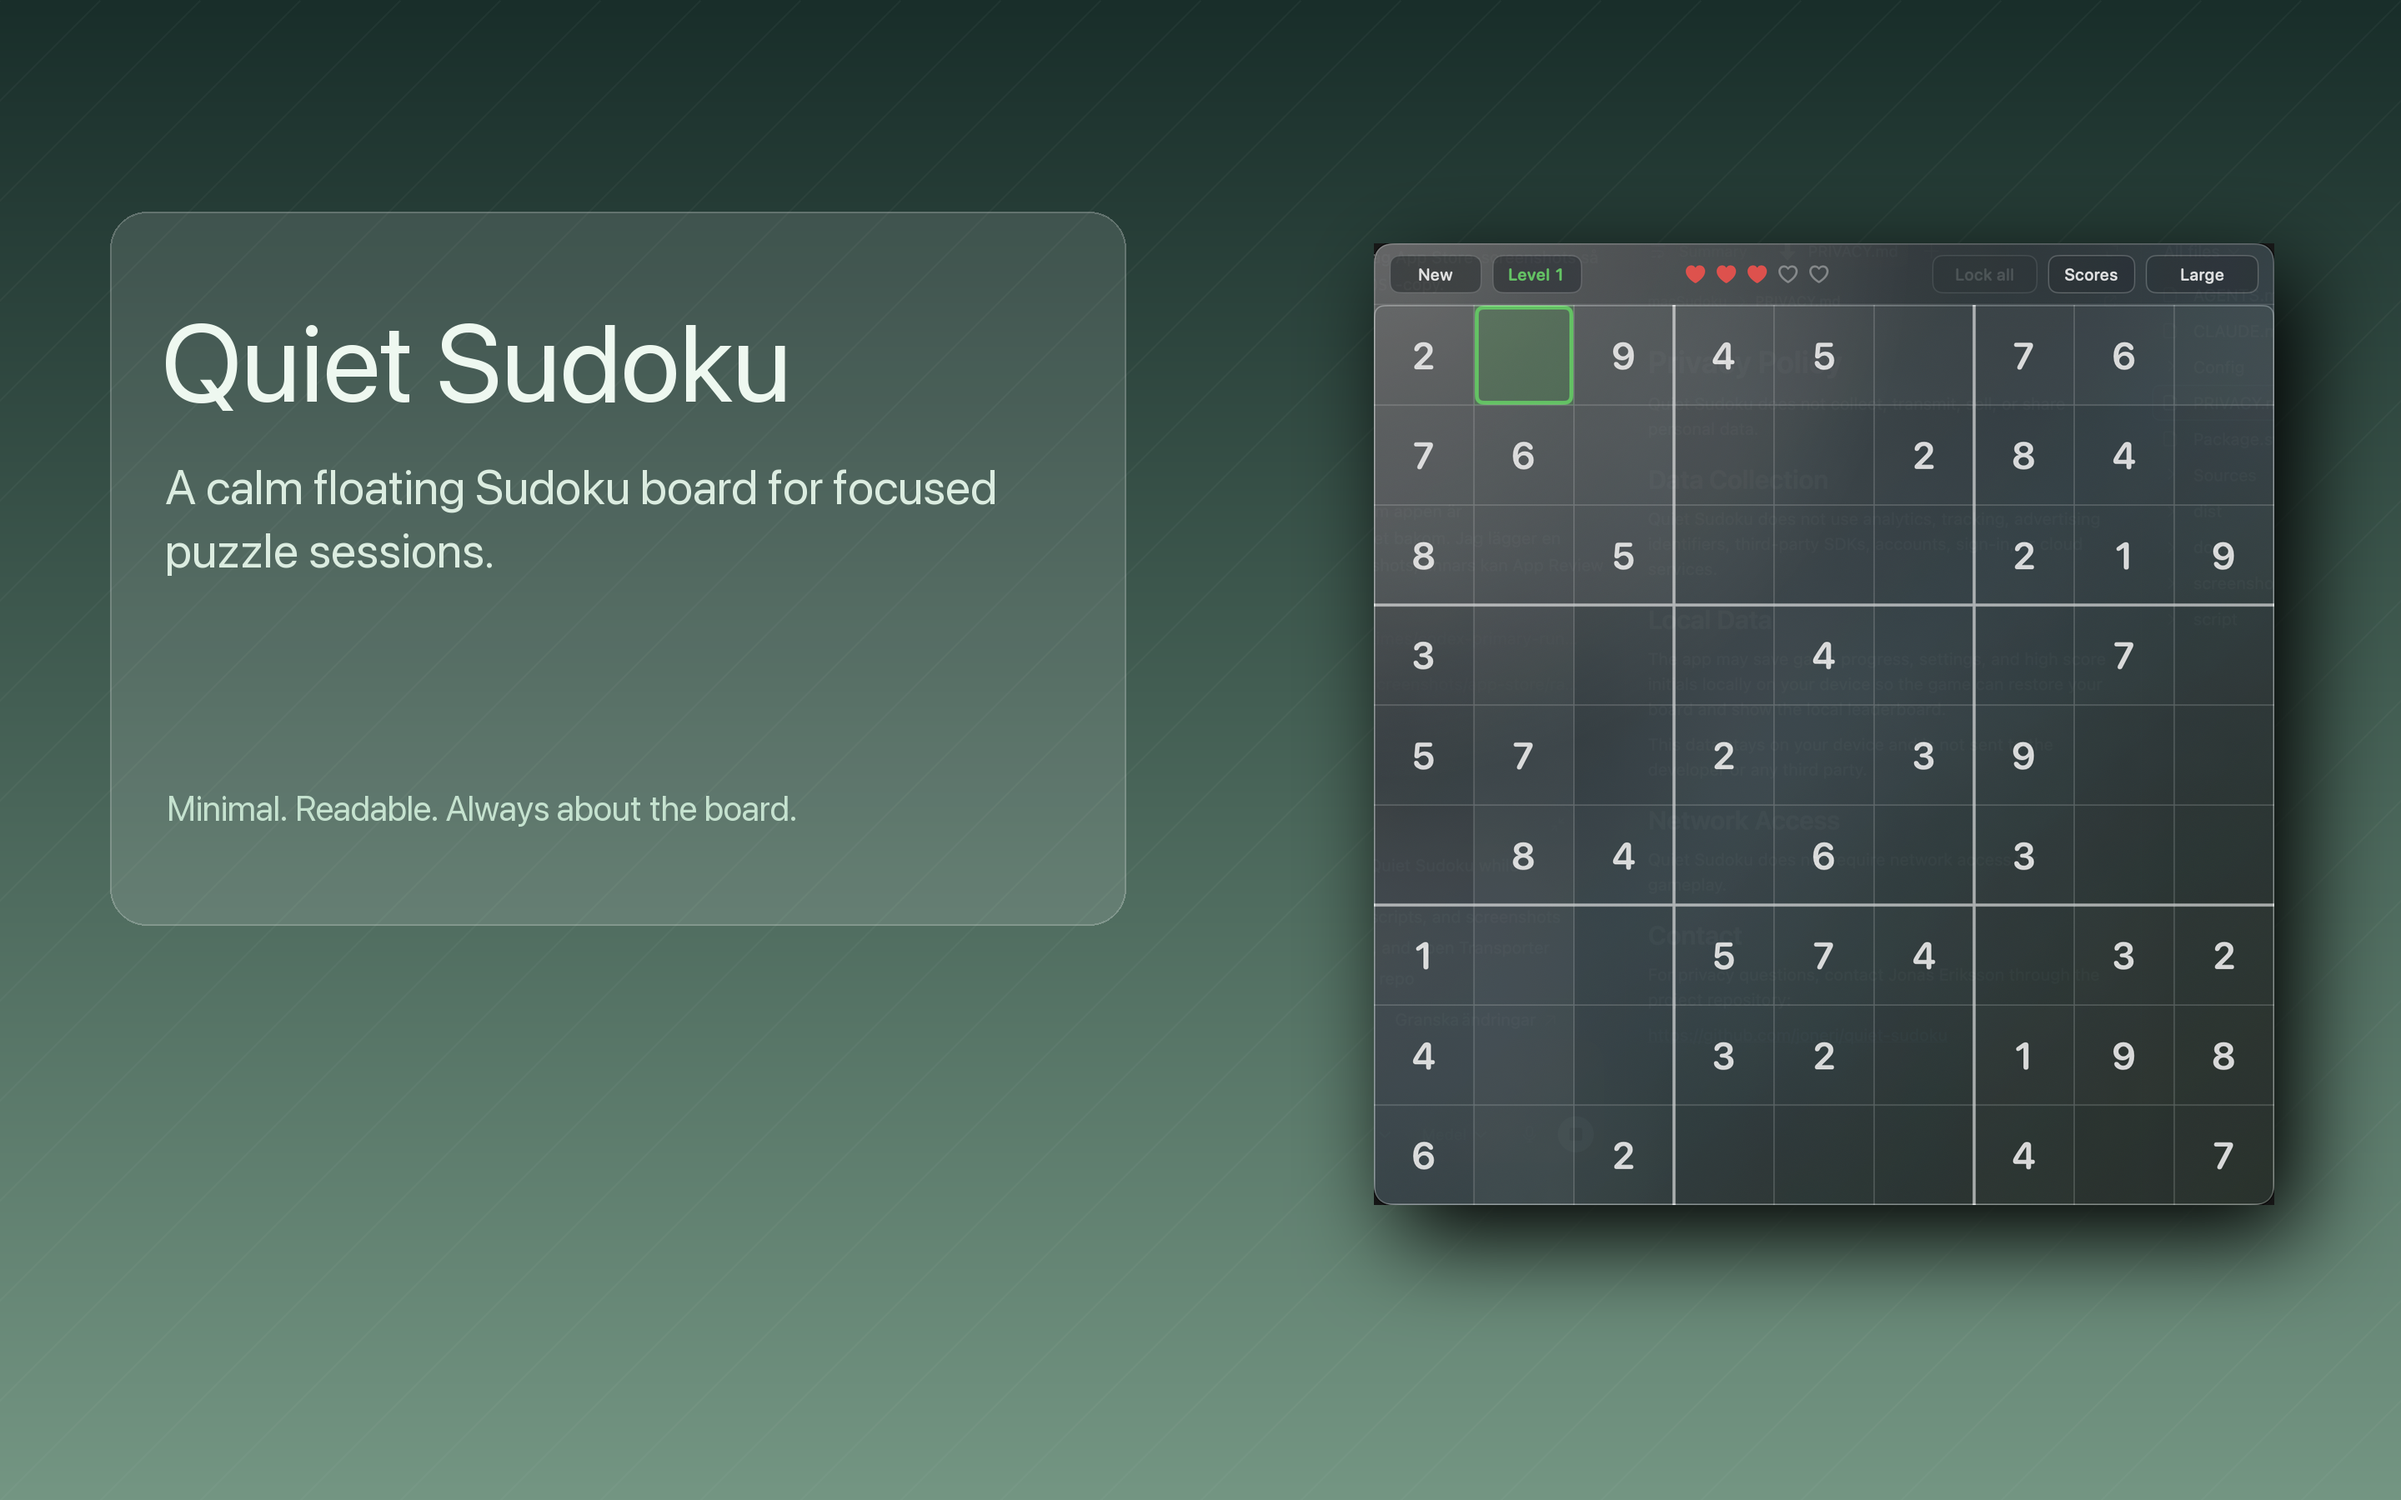
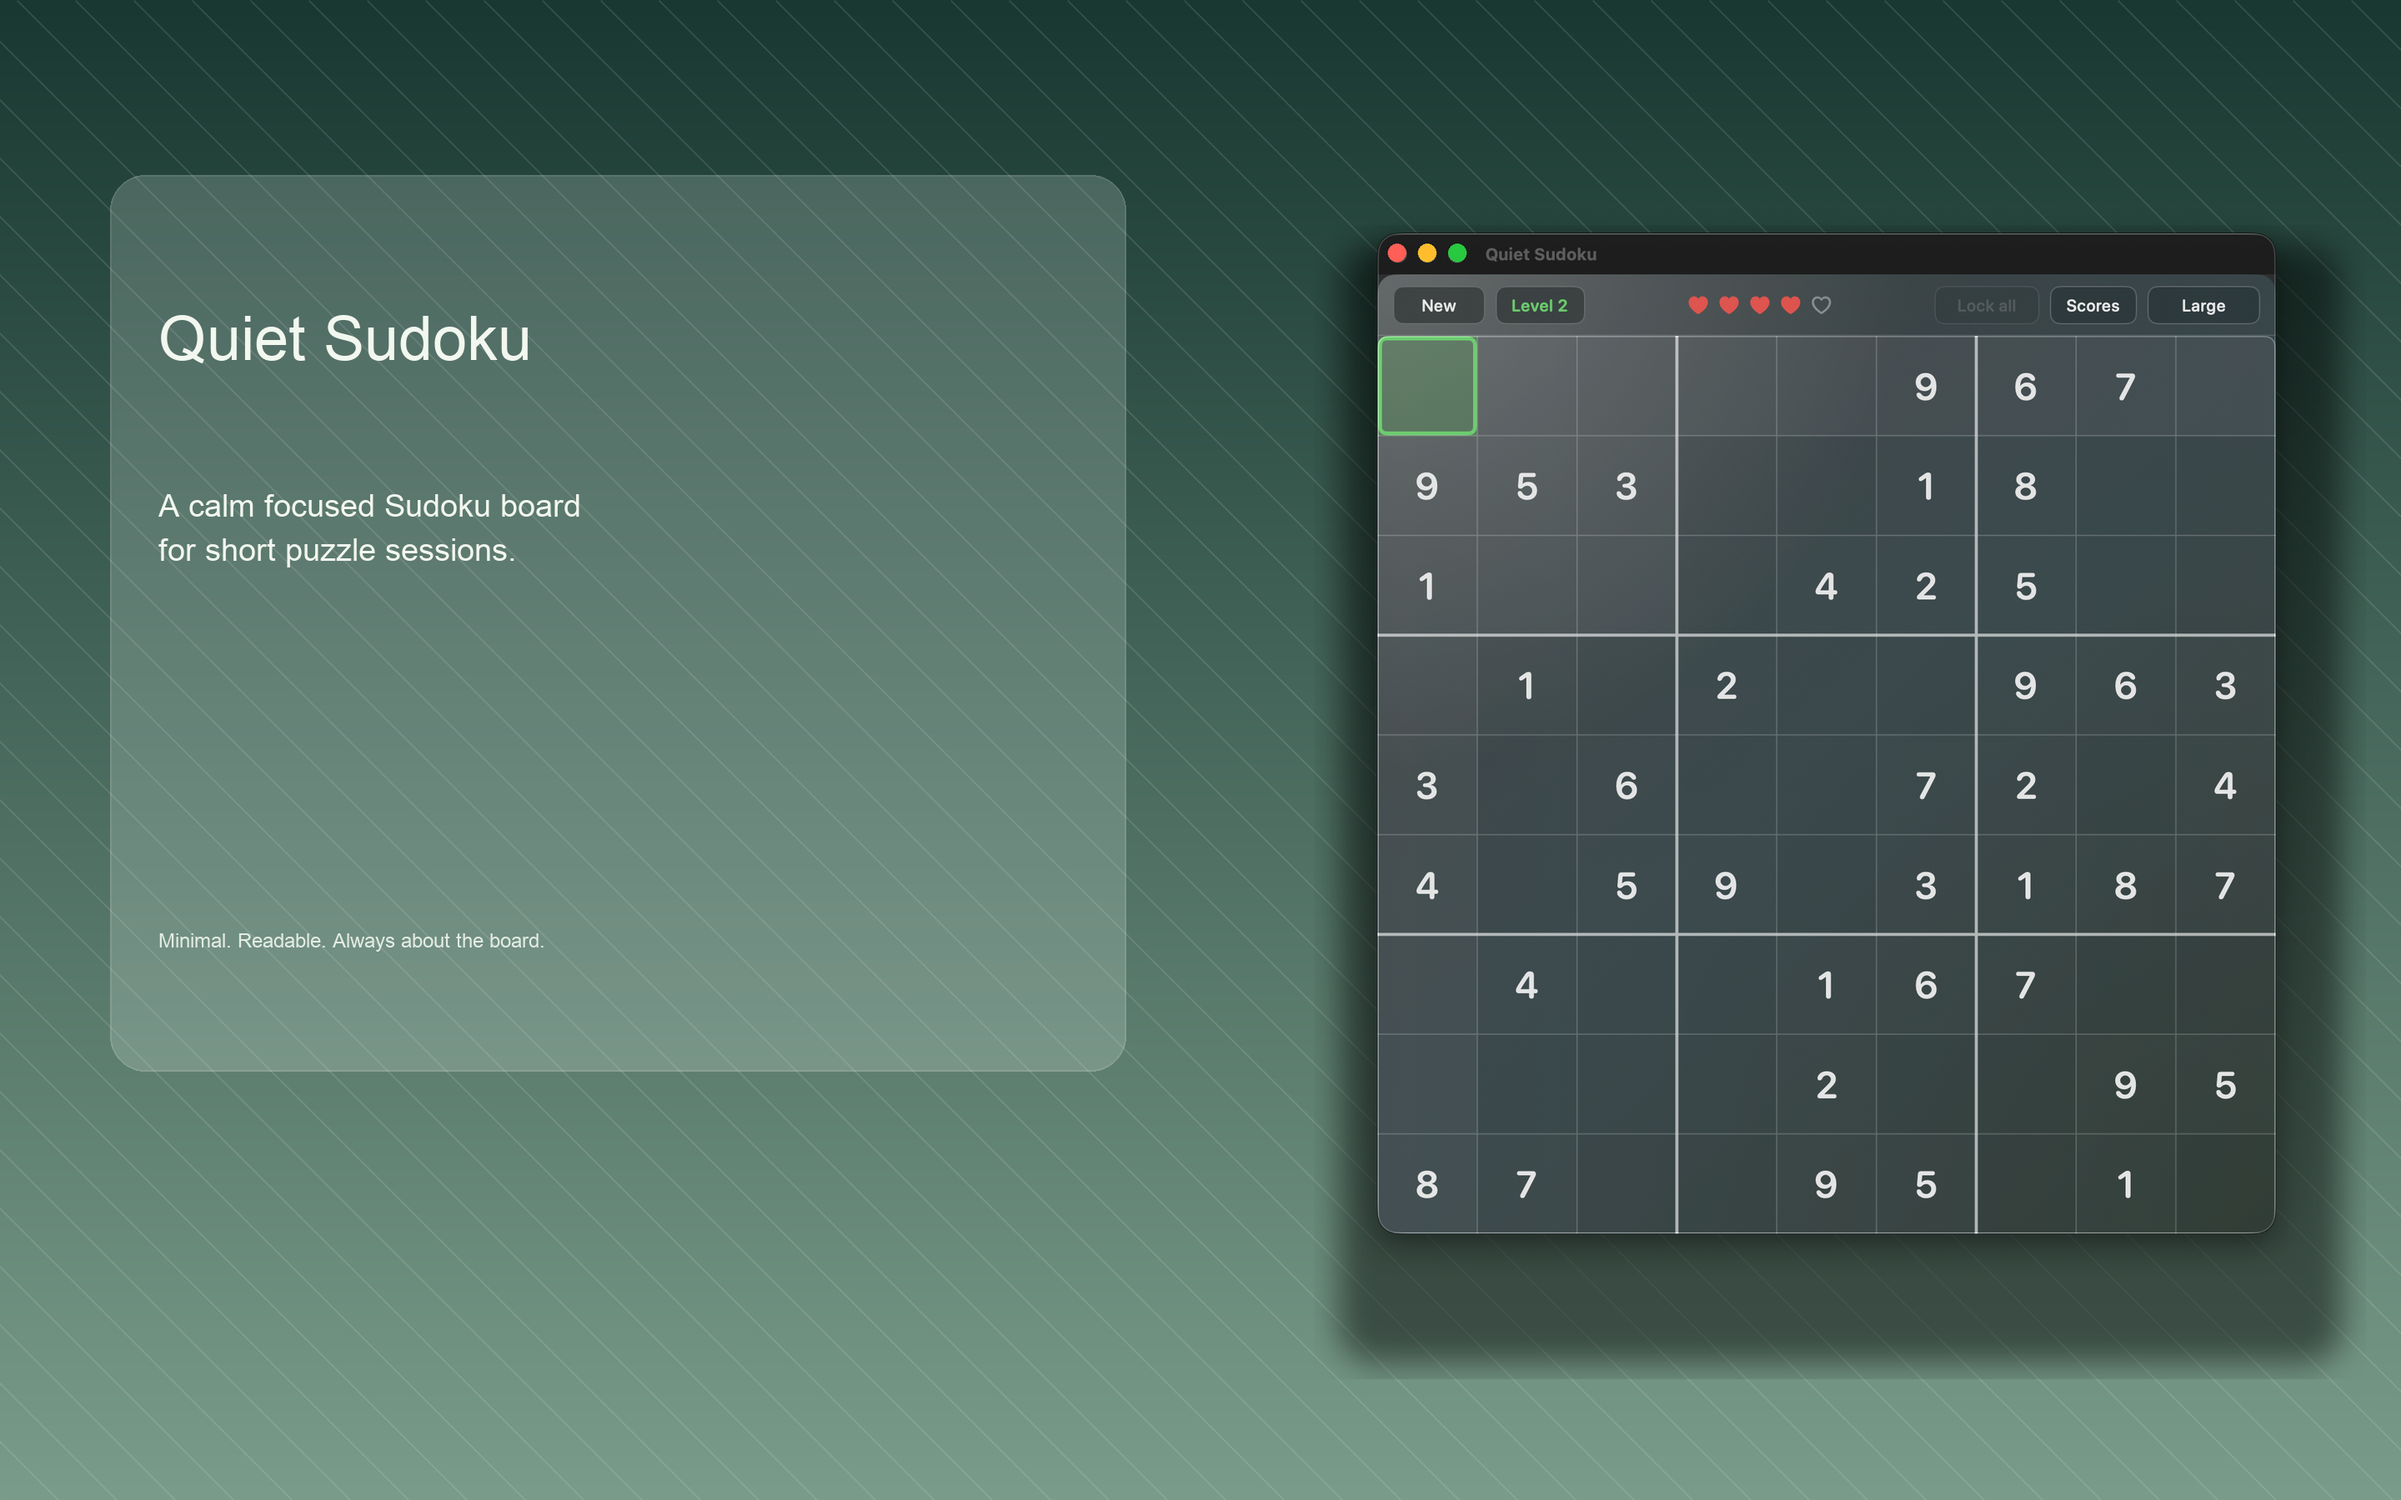
Preserve native window chrome; add screenshots
Keep the standard macOS title-bar/toolbar controls and simplify floating window tuning. Updated QuietSudokuApp to use the app name "Quiet Sudoku" and removed toolbar/title-bar hiding and .windowStyle(.plain) calls. FloatingWindowConfigurator now only adjusts level, shadow, alpha, resizability and space behavior and no longer performs titlebar transparency, full-size content, or hides the standard traffic-light buttons (so controls remain visible for review). Added docs/features/window-chrome.md explaining the rationale and App Store review considerations. Updated App Store screenshot images and added screenshots/raw/window-clean.png plus script/generate_app_store_screenshots.py to generate composited marketing screenshots.

diff --git a/Sources/QuietSudoku/Support/FloatingWindowConfigurator.swift b/Sources/QuietSudoku/Support/FloatingWindowConfigurator.swift
@@ -23,17 +23,9 @@ struct FloatingWindowConfigurator: NSViewRepresentable {
 
         window.level = .floating
         window.isMovableByWindowBackground = false
-        window.titleVisibility = .hidden
-        window.titlebarAppearsTransparent = true
-        window.backgroundColor = .clear
-        window.isOpaque = false
         window.hasShadow = true
         window.alphaValue = 0.98
         window.styleMask.remove(.resizable)
-        window.styleMask.insert(.fullSizeContentView)
         window.collectionBehavior.insert([.canJoinAllSpaces, .fullScreenAuxiliary])
-        window.standardWindowButton(.closeButton)?.isHidden = true
-        window.standardWindowButton(.miniaturizeButton)?.isHidden = true
-        window.standardWindowButton(.zoomButton)?.isHidden = true
     }
 }

diff --git a/Sources/QuietSudoku/App/QuietSudokuApp.swift b/Sources/QuietSudoku/App/QuietSudokuApp.swift
@@ -6,13 +6,11 @@ struct QuietSudokuApp: App {
     @NSApplicationDelegateAdaptor(AppDelegate.self) private var appDelegate
 
     var body: some Scene {
-        WindowGroup("Sudoku") {
+        WindowGroup("Quiet Sudoku") {
             SudokuBoardView()
                 .background(FloatingWindowConfigurator())
-                .toolbarVisibility(.hidden, for: .windowToolbar)
                 .containerBackground(.thinMaterial, for: .window)
         }
-        .windowStyle(.plain)
         .windowResizability(.contentSize)
         .defaultWindowPlacement { content, context in
             let ideal = content.sizeThatFits(.unspecified)

diff --git a/script/generate_app_store_screenshots.py b/script/generate_app_store_screenshots.py
@@ -1,0 +1,135 @@
+#!/usr/bin/env python3
+
+from pathlib import Path
+from PIL import Image, ImageDraw, ImageFilter, ImageFont
+
+ROOT = Path("/Users/jonaseriksson/dev-stuff/GitHub/macSudoku")
+WINDOW_CAPTURE = ROOT / "screenshots" / "raw" / "window-clean.png"
+OUTPUT_DIR = ROOT / "screenshots" / "app-store"
+
+WIDTH = 2880
+HEIGHT = 1800
+
+FONT_REGULAR = "/System/Library/Fonts/Supplemental/Arial.ttf"
+FONT_BOLD = "/System/Library/Fonts/Supplemental/Arial Bold.ttf"
+
+SCREEN_SPECS = [
+    {
+        "filename": "01-main-board.png",
+        "bg_top": (24, 56, 49),
+        "bg_bottom": (122, 156, 138),
+        "headline": "Quiet Sudoku",
+        "body": "A calm focused Sudoku board\nfor short puzzle sessions.",
+        "footer": "Minimal. Readable. Always about the board.",
+        "window_scale": 0.77,
+        "window_pos": (1600, 240),
+    },
+    {
+        "filename": "02-readable-board.png",
+        "bg_top": (29, 49, 66),
+        "bg_bottom": (136, 168, 157),
+        "headline": "Clear at a glance",
+        "body": "Readable numbers, soft cell feedback,\nand a calm board surface.",
+        "footer": "Easy to scan from the first move.",
+        "window_scale": 0.73,
+        "window_pos": (1660, 270),
+    },
+    {
+        "filename": "03-progress-feedback.png",
+        "bg_top": (26, 54, 43),
+        "bg_bottom": (108, 150, 121),
+        "headline": "Gentle progress",
+        "body": "Completed digits and board progress\nstay visible without visual clutter.",
+        "footer": "Quiet focus from first move to last.",
+        "window_scale": 0.73,
+        "window_pos": (1660, 270),
+    },
+]
+
+
+def load_font(path: str, size: int) -> ImageFont.FreeTypeFont:
+    return ImageFont.truetype(path, size=size)
+
+
+def make_gradient(top: tuple[int, int, int], bottom: tuple[int, int, int]) -> Image.Image:
+    image = Image.new("RGBA", (WIDTH, HEIGHT))
+    draw = ImageDraw.Draw(image)
+    for y in range(HEIGHT):
+        t = y / (HEIGHT - 1)
+        color = tuple(int(top[i] * (1 - t) + bottom[i] * t) for i in range(3))
+        draw.line((0, y, WIDTH, y), fill=color + (255,))
+    return image
+
+
+def add_diagonal_pattern(image: Image.Image) -> None:
+    overlay = Image.new("RGBA", image.size, (0, 0, 0, 0))
+    draw = ImageDraw.Draw(overlay)
+    spacing = 70
+    for x in range(-HEIGHT, WIDTH, spacing):
+        draw.line((x, 0, x + HEIGHT, HEIGHT), fill=(255, 255, 255, 26), width=2)
+    image.alpha_composite(overlay)
+
+
+def add_glass_panel(image: Image.Image) -> None:
+    panel = Image.new("RGBA", image.size, (0, 0, 0, 0))
+    draw = ImageDraw.Draw(panel)
+    bounds = (132, 210, 1350, 1285)
+    draw.rounded_rectangle(bounds, radius=42, fill=(214, 229, 222, 56), outline=(255, 255, 255, 66), width=2)
+    image.alpha_composite(panel)
+
+
+def add_copy(image: Image.Image, headline: str, body: str, footer: str) -> None:
+    draw = ImageDraw.Draw(image)
+    headline_font = load_font(FONT_REGULAR, 74)
+    body_font = load_font(FONT_REGULAR, 38)
+    footer_font = load_font(FONT_REGULAR, 24)
+    ink = (242, 247, 239, 255)
+    secondary = (224, 234, 226, 230)
+
+    draw.text((190, 365), headline, font=headline_font, fill=ink)
+    draw.multiline_text((190, 585), body, font=body_font, fill=ink, spacing=18)
+    draw.text((190, 1115), footer, font=footer_font, fill=secondary)
+
+
+def add_window(image: Image.Image, window_capture: Image.Image, scale: float, pos: tuple[int, int]) -> None:
+    new_size = (int(window_capture.width * scale), int(window_capture.height * scale))
+    resized = window_capture.resize(new_size, Image.Resampling.LANCZOS)
+
+    shadow = Image.new("RGBA", (resized.width + 80, resized.height + 80), (0, 0, 0, 0))
+    shadow_draw = ImageDraw.Draw(shadow)
+    shadow_draw.rounded_rectangle((30, 24, shadow.width - 30, shadow.height - 20), radius=42, fill=(0, 0, 0, 120))
+    shadow = shadow.filter(ImageFilter.GaussianBlur(18))
+    image.alpha_composite(shadow, (pos[0] - 24, pos[1] + 30))
+    image.alpha_composite(resized, pos)
+
+
+def add_traffic_light_colors(window_capture: Image.Image) -> Image.Image:
+    recolored = window_capture.copy()
+    draw = ImageDraw.Draw(recolored, "RGBA")
+    buttons = [
+        ((98, 82), (255, 95, 87, 255)),
+        ((145, 82), (255, 189, 46, 255)),
+        ((192, 82), (40, 200, 64, 255)),
+    ]
+    radius = 14
+    for (cx, cy), color in buttons:
+        draw.ellipse((cx - radius, cy - radius, cx + radius, cy + radius), fill=color)
+    return recolored
+
+
+def main() -> None:
+    OUTPUT_DIR.mkdir(parents=True, exist_ok=True)
+    window_capture = Image.open(WINDOW_CAPTURE).convert("RGBA")
+    window_capture = add_traffic_light_colors(window_capture)
+
+    for spec in SCREEN_SPECS:
+        canvas = make_gradient(spec["bg_top"], spec["bg_bottom"])
+        add_diagonal_pattern(canvas)
+        add_glass_panel(canvas)
+        add_copy(canvas, spec["headline"], spec["body"], spec["footer"])
+        add_window(canvas, window_capture, spec["window_scale"], spec["window_pos"])
+        canvas.save(OUTPUT_DIR / spec["filename"])
+
+
+if __name__ == "__main__":
+    main()

diff --git a/docs/features/window-chrome.md b/docs/features/window-chrome.md
@@ -1,0 +1,13 @@
+Purpose: Keep Quiet Sudoku visually calm while still behaving like a normal macOS window during review and everyday use.
+
+How it works: The app uses the default macOS window style and leaves the native title-bar/toolbar system in place so the standard window controls remain visible. The floating window configurator only tunes window level, shadow, opacity, sizing, and space behavior. It must avoid title-bar customizations that can suppress or visually obscure the standard close, minimize, and zoom buttons.
+
+Key decisions: Apple review expects normal title bar controls to remain available. We keep the lightweight floating feel through material and window level, but prefer standard macOS title-bar behavior over transparent or full-size-content customizations.
+
+Inputs/outputs: SwiftUI creates the window scene in `/Users/jonaseriksson/dev-stuff/GitHub/macSudoku/Sources/QuietSudoku/App/QuietSudokuApp.swift`, and `/Users/jonaseriksson/dev-stuff/GitHub/macSudoku/Sources/QuietSudoku/Support/FloatingWindowConfigurator.swift` applies AppKit-level window tuning after the window exists.
+
+Edge cases: Avoid `.windowStyle(.plain)`, avoid hiding the window toolbar/title-bar system, avoid manually hiding standard window buttons, and avoid title-bar or full-size-content tweaks that can make the traffic-light controls disappear or become unreadable.
+
+Debugging: Launch the app locally and confirm the red, yellow, and green title bar buttons are visible in the top-left corner while the board still uses the intended floating material look.
+
+Related files: `/Users/jonaseriksson/dev-stuff/GitHub/macSudoku/Sources/QuietSudoku/App/QuietSudokuApp.swift`, `/Users/jonaseriksson/dev-stuff/GitHub/macSudoku/Sources/QuietSudoku/Support/FloatingWindowConfigurator.swift`
